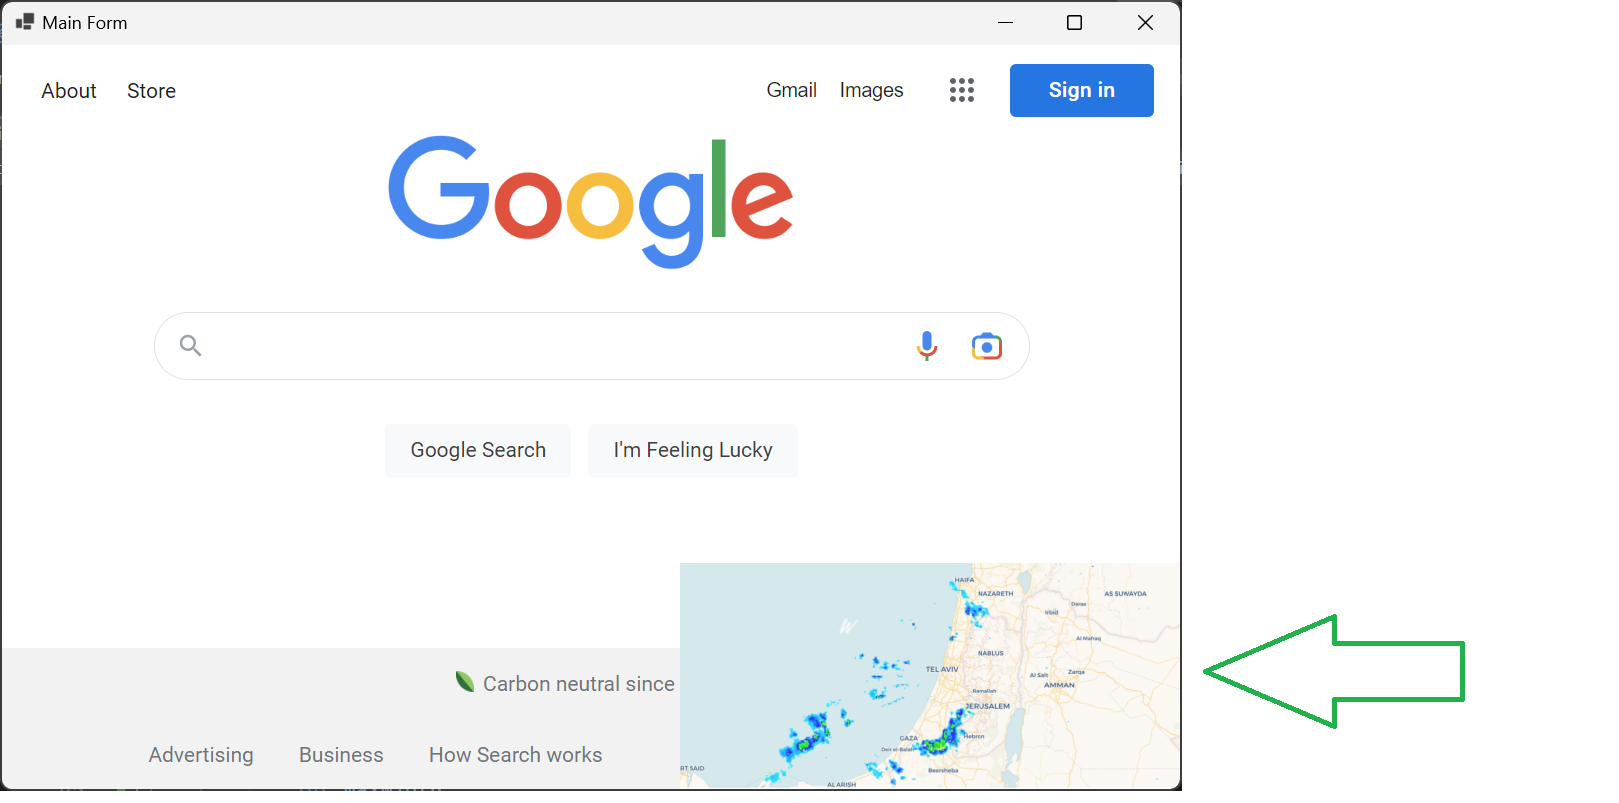
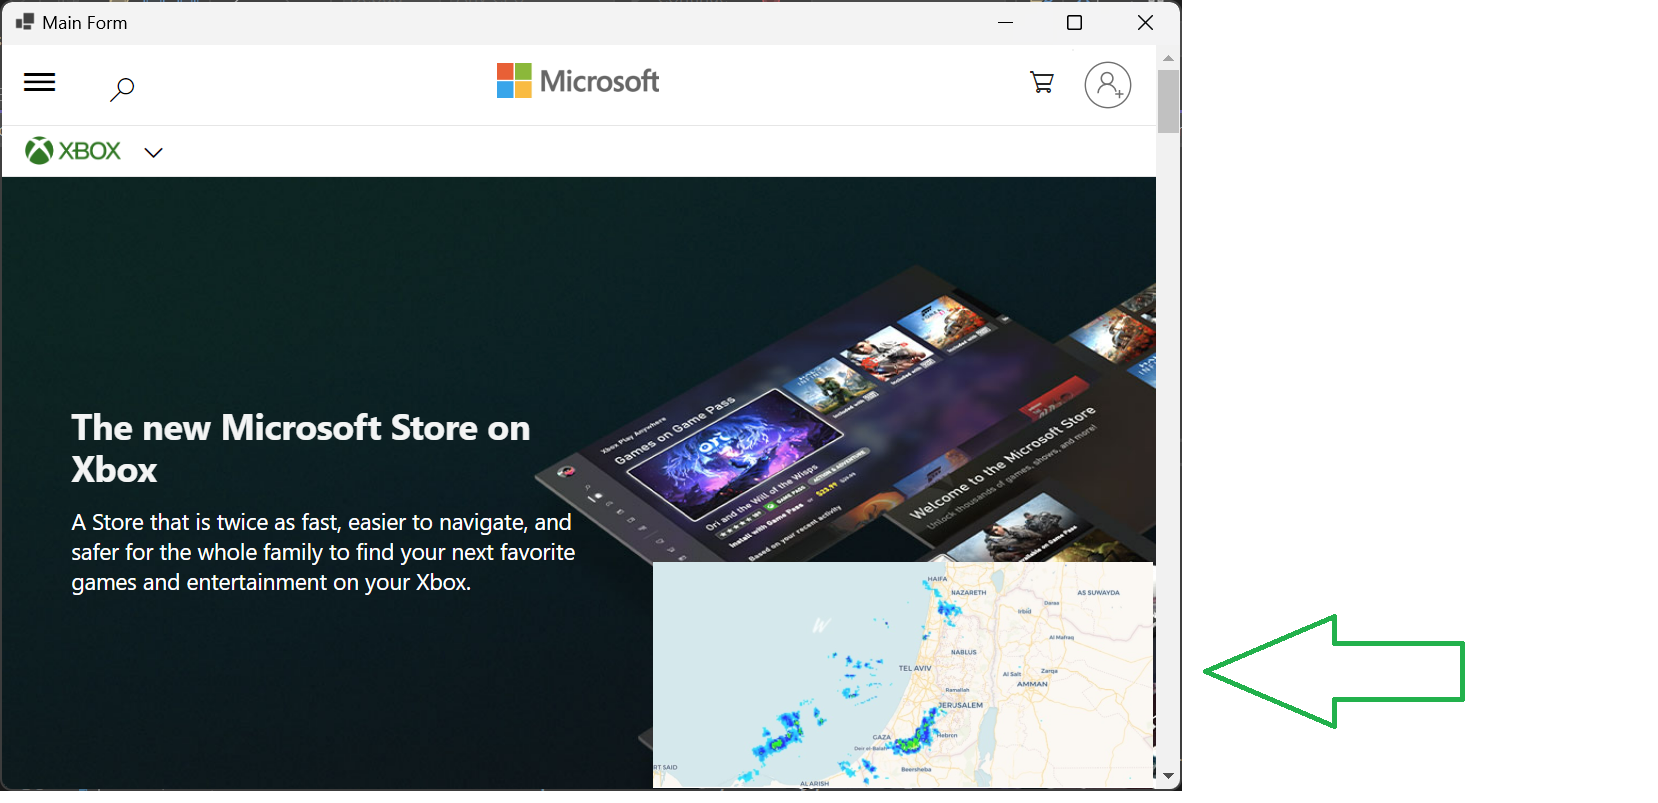
location now takes vertical scroll bar margins into account

diff --git a/control-over-webview-control/MainForm.Designer.cs b/control-over-webview-control/MainForm.Designer.cs
@@ -41,7 +41,7 @@
             this.webView21.Location = new System.Drawing.Point(0, 0);
             this.webView21.Name = "webView21";
             this.webView21.Size = new System.Drawing.Size(1178, 744);
-            this.webView21.Source = new System.Uri("https://www.google.com", System.UriKind.Absolute);
+            this.webView21.Source = new System.Uri("https://www.xbox.com/en-US/microsoft-store", System.UriKind.Absolute);
             this.webView21.TabIndex = 0;
             this.webView21.ZoomFactor = 1D;
             // 

diff --git a/control-over-webview-control/MainForm.cs b/control-over-webview-control/MainForm.cs
@@ -34,8 +34,10 @@ namespace control_over_webview_control
                 maxHeight: HEIGHT
             );
             pictureBox.Location = new Point(
-                webView21.Right - pictureBox.Width,
-                webView21.Bottom - pictureBox.Height);
+                webView21.Right 
+                - pictureBox.Width
+                - SystemInformation.VerticalScrollBarWidth - 1,
+                webView21.Bottom - pictureBox.Height - 1);
 
             webView21.Controls.Add(pictureBox);
         }

diff --git a/README.md b/README.md
@@ -23,8 +23,10 @@ In `WinForms` you can show _any_ control (e.g. `PictureBox`) over any _other_ co
                 maxHeight: HEIGHT
             );
             pictureBox.Location = new Point(
-                webView21.Right - pictureBox.Width,
-                webView21.Bottom - pictureBox.Height);
+                webView21.Right 
+                - pictureBox.Width
+                - SystemInformation.VerticalScrollBarWidth - 1,
+                webView21.Bottom - pictureBox.Height - 1);
 
             webView21.Controls.Add(pictureBox);
         }
@@ -59,5 +61,13 @@ To make the picture box do this:
         return newPictureBox;
     }
 
+***
+**Image Paths**
 
-  [1]: https://i.stack.imgur.com/jNc1i.png
+If you add more images, make sure you set this property for them:
+
+[![image-paths][2]][2]
+
+
+  [1]: https://i.stack.imgur.com/a6tJm.png
+  [2]: https://i.stack.imgur.com/ZQPf6.png
